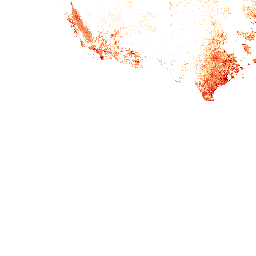
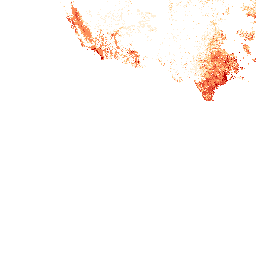
more tiles

diff --git a/tiles/fountaingrass/1st/CONUS_KDE/leaflet.html b/tiles/fountaingrass/1st/CONUS_KDE/leaflet.html
@@ -3,7 +3,7 @@
           <head>
             <meta charset="utf-8">
             <meta name='viewport' content='width=device-width, initial-scale=1.0, maximum-scale=1.0, user-scalable=no' />
-            <title>ensemble_1st_CONUS_KDE_gte0_color.tif</title>
+            <title>ensemble_1st_CONUS_KDE_gte0_color_3857.tif</title>
 
             <!-- Leaflet -->
             <link rel="stylesheet" href="http://cdn.leafletjs.com/leaflet-0.7.5/leaflet.css" />
@@ -58,9 +58,9 @@
         // Map
         var map = L.map('map', {
             center: [37.1690981253, -96.7390195771],
-            zoom: 4,
-            minZoom: 4,
-            maxZoom: 4,
+            zoom: 1,
+            minZoom: 0,
+            maxZoom: 1,
             layers: [osm]
         });
 
@@ -75,7 +75,7 @@
             return this._div;
         };
         title.update = function(props) {
-            this._div.innerHTML = "ensemble_1st_CONUS_KDE_gte0_color.tif";
+            this._div.innerHTML = "ensemble_1st_CONUS_KDE_gte0_color_3857.tif";
         };
         title.addTo(map);
 
